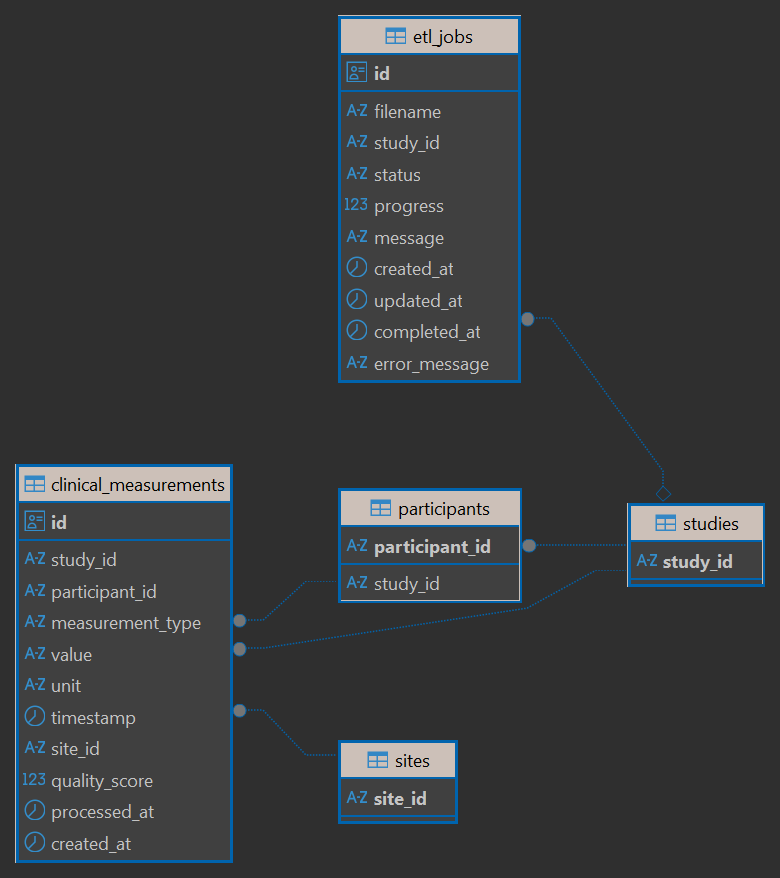
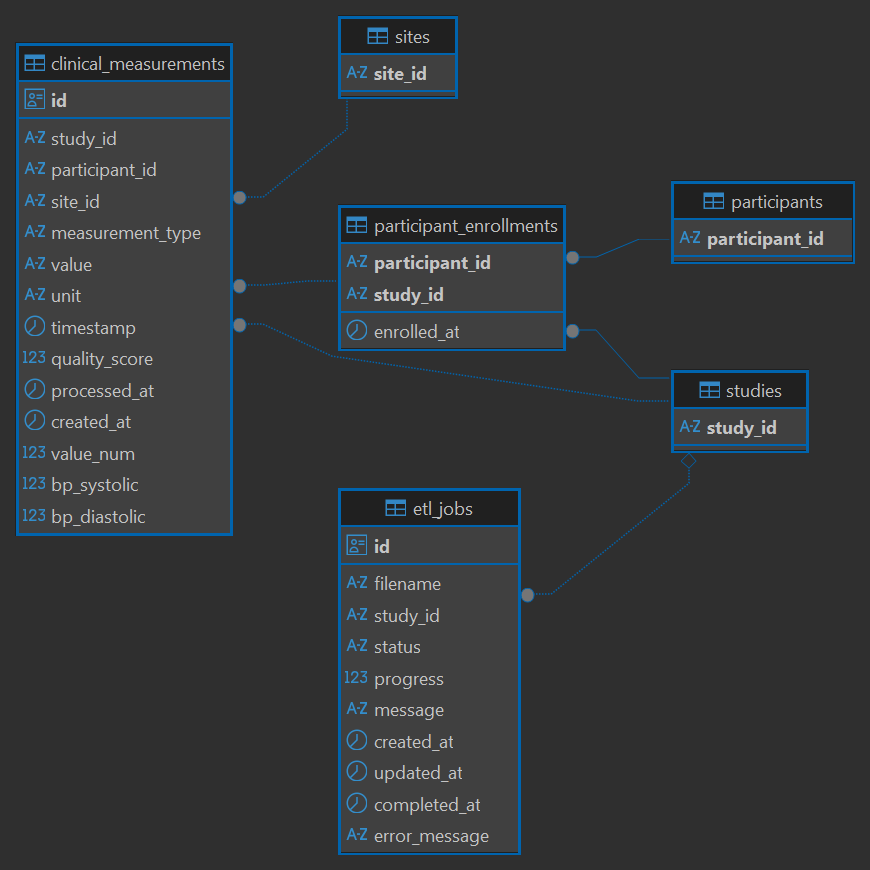
modified db schema v3.0
1. Added three new columns value_num, bp_systolic, bp_diastolic making the value column more accessible for queries.
2. Added participant_enrollments column to find out participants enrolled in multiple studies.
3. Added new schema ER diagram.
4. Modified main.py and DDL for the same/

diff --git a/etl-service/src/main.py b/etl-service/src/main.py
@@ -147,13 +147,25 @@ def load_data(job_id: str, df: pd.DataFrame):
     for s in df['study_id'].unique():
         cur.execute("INSERT INTO studies(study_id) VALUES (%s) ON CONFLICT DO NOTHING", (s,))
 
-    # Upsert study_participants
-    for pid, sid in df[['participant_id', 'study_id']].drop_duplicates().values.tolist():
+    # Upsert participants
+    for pid in df['participant_id'].unique():
         cur.execute("""
-            INSERT INTO participants(participant_id, study_id)
-            VALUES (%s, %s)
+            INSERT INTO participants (participant_id)
+            VALUES (%s)
             ON CONFLICT DO NOTHING
-        """, (pid, sid))
+        """, (pid,))
+
+    #  Upsert participant enrollments
+    for (pid, sid), grp in df.groupby(['participant_id', 'study_id']):
+        first_seen = grp['timestamp'].min()        # pandas Timestamp
+        cur.execute("""
+            INSERT INTO participant_enrollments (participant_id, study_id, enrolled_at)
+            VALUES (%s, %s, %s)
+            ON CONFLICT (participant_id, study_id) DO UPDATE
+                SET enrolled_at =
+                    LEAST(participant_enrollments.enrolled_at, EXCLUDED.enrolled_at)
+        """, (pid, sid, first_seen.to_pydatetime()))
+
 
     # Upsert sites
     for site in df['site_id'].unique():
